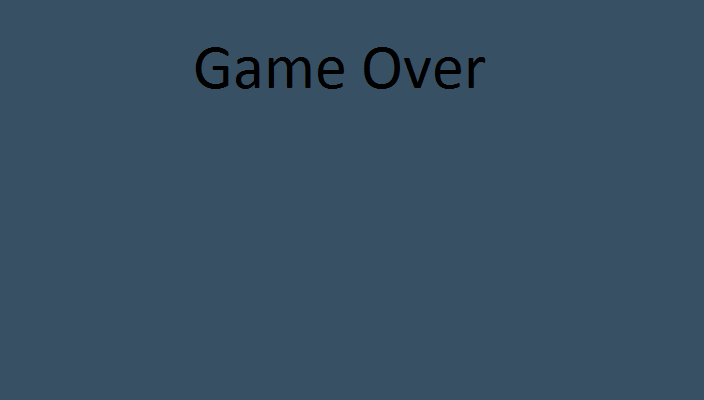
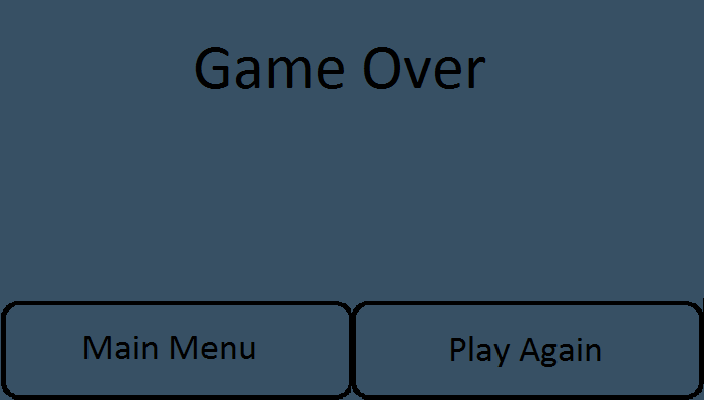
GameOverScreen transitions to other screens started
there is a bug with the positions

Changed region(s): [[0.0, 0.75, 1.0, 1.0], [0.625, 0.84, 0.875, 0.93], [0.0938, 0.84, 0.375, 0.9]]

diff --git a/core/src/com/lpoo/slash/GameOverScreen.java b/core/src/com/lpoo/slash/GameOverScreen.java
@@ -10,8 +10,6 @@ import com.badlogic.gdx.graphics.Texture;
 import com.badlogic.gdx.graphics.g2d.BitmapFont;
 import com.badlogic.gdx.graphics.g2d.Sprite;
 import com.badlogic.gdx.graphics.g2d.SpriteBatch;
-import com.badlogic.gdx.graphics.glutils.ShapeRenderer;
-import com.lpoo.slashhelpers.InputHandler;
 import com.lpoo.slashhelpers.Utilities;
 
 /**
@@ -49,8 +47,27 @@ public class GameOverScreen implements Screen {
 
             @Override
             public boolean touchUp(int screenX, int screenY, int pointer, int button) {
-                Utilities.changeScreen(game, new GameScreen(game));
+                if(screenY>height*(3/4))
+                {
+                    System.out.println("AA");
+                    if(screenX<width/2)
+                        Utilities.changeScreen(game, new MenuScreen(game));
+                    else Utilities.changeScreen(game, new GameScreen(game));
+                }
+                Gdx.app.log("GameOverScreen::inputs","x="+screenX+", y="+screenY);
                 return true;
+            }
+
+            @Override
+            public boolean touchDown(int screenX, int screenY, int pointer, int button) {
+                Gdx.app.log("GameOverScreen::inputs","down");
+                return false;
+            }
+
+            @Override
+            public boolean touchDragged(int screenX, int screenY, int pointer) {
+                Gdx.app.log("GameOverScreen::inputs","dragged");
+                return false;
             }
 
             @Override
@@ -65,16 +82,6 @@ public class GameOverScreen implements Screen {
 
             @Override
             public boolean keyTyped(char character) {
-                return false;
-            }
-
-            @Override
-            public boolean touchDown(int screenX, int screenY, int pointer, int button) {
-                return false;
-            }
-
-            @Override
-            public boolean touchDragged(int screenX, int screenY, int pointer) {
                 return false;
             }
 
@@ -103,7 +110,6 @@ public class GameOverScreen implements Screen {
 
         batch.draw(background, 0, 0, width, height);
         font.draw(batch, "Score: 35 <- temporary and static value", 40, 125);
-        font.draw(batch,"Touch screen to play again", 150,50);
 
         batch.end();
 
